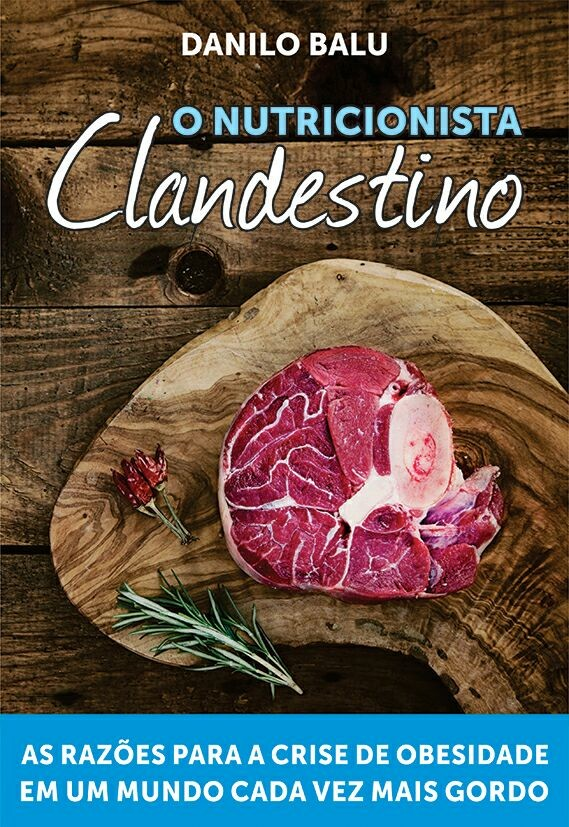
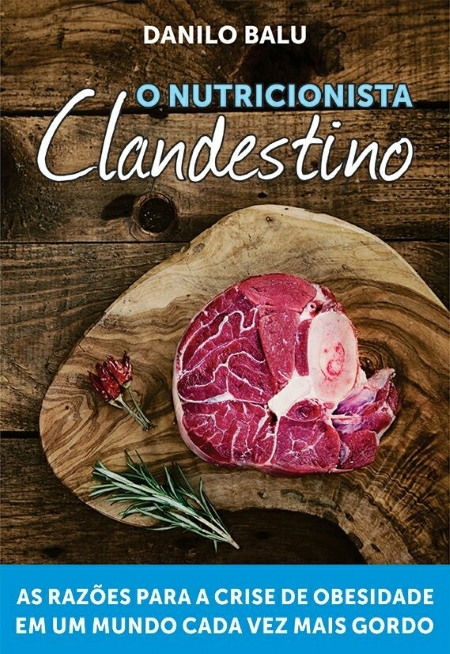
tentativa de arrumar header mobile 1

Changed region(s): [[0.8089, 0.2141, 0.84, 0.2446], [0.5289, 0.2141, 0.56, 0.2446], [0.28, 0.2141, 0.3111, 0.2446]]

diff --git a/index.html b/index.html
@@ -18,12 +18,12 @@
 <div id="wrapper" class="behind">
 <header>
 	<div class="container">
-			<div class="col-md-6 col-sm-12 wow animated fadeInUp">
+			<div class="col-md-6 col-sm-12 wow animated fadeInUp" >
 				<div class="intro-book">
 					<img src="img/capa.jpg" alt="">
 				</div>
 			</div>
-			<div class="col-md-6 intro-text hidden-sm hidden-xs wow animated fadeInUp">
+			<div class="col-md-6 col-sm-12 intro-text  wow animated fadeInUp" style="">
 				<h2 class="heading">O Nutricionista Clandestino</h2>
 				<h4 class="subheading">O que a ciência diz sobre porque engordamos.</h4>
 				<p>Este não é um livro de dieta, nem um manual para a perda de peso. É uma apresentação para o público em geral do que estudos científicos sérios tem a dizer sobre a perda de peso. O objetivo, nada humilde, é de proteger a sociedade das bobagens que nutricionistas diplomadas dizem em programas de TV e revistas por aí. Ao terminar de ler, você poderá criar, com conhecimento de causa, sua própria dieta e seu manual de perda de peso.</p>

diff --git a/css/publisher.css b/css/publisher.css
@@ -154,19 +154,31 @@ header .intro-book {
 		position: relative;
 		margin:0 auto;
 	}
+	
+	
 }
 
 header .intro-text { 
 	position: relative;
+		
 }
+
+
+
 
 @media(max-width:768px) {
 	.intro-book img {
 		width:250px;
 		position: relative;
-		margin:0 auto;
-		bottom:-160px;
+		margin:10px auto;
+		
 	}
+	
+	
+	header  {
+	overflow-y: scroll;
+	}
+	
 }
 
 .container {

diff --git a/css/bootstrap.css b/css/bootstrap.css
@@ -1,4 +1,4 @@
-/*!
+hidden-sm/*!
  * Bootstrap v3.3.4 (http://getbootstrap.com)
  * Copyright 2011-2015 Twitter, Inc.
  * Licensed under MIT (https://github.com/twbs/bootstrap/blob/master/LICENSE)
